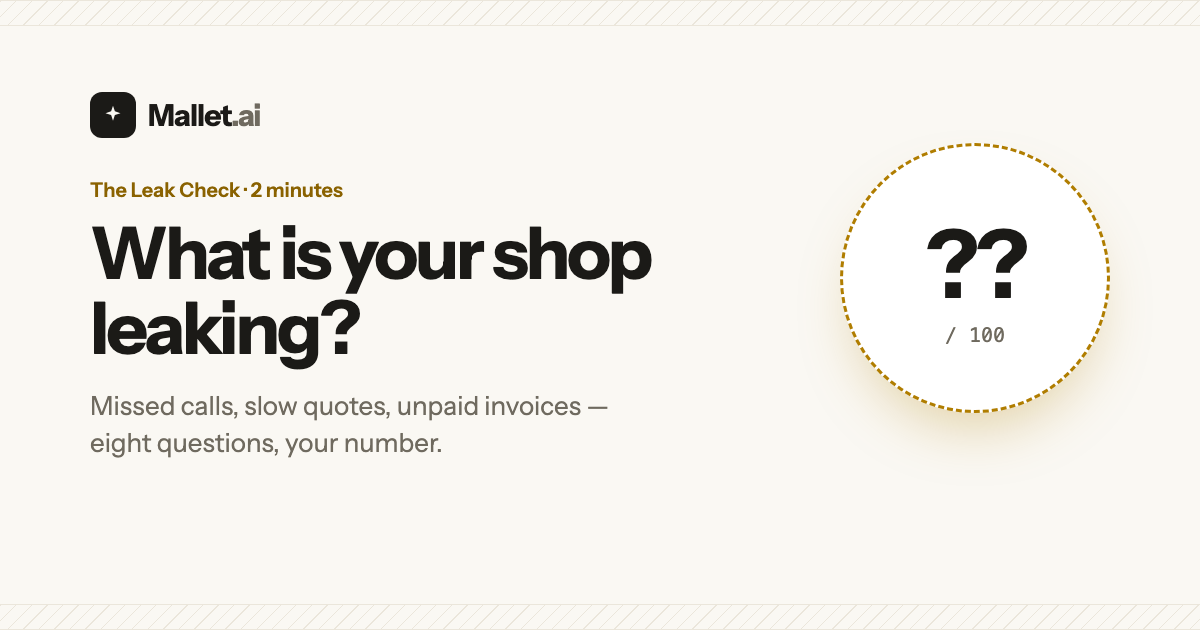
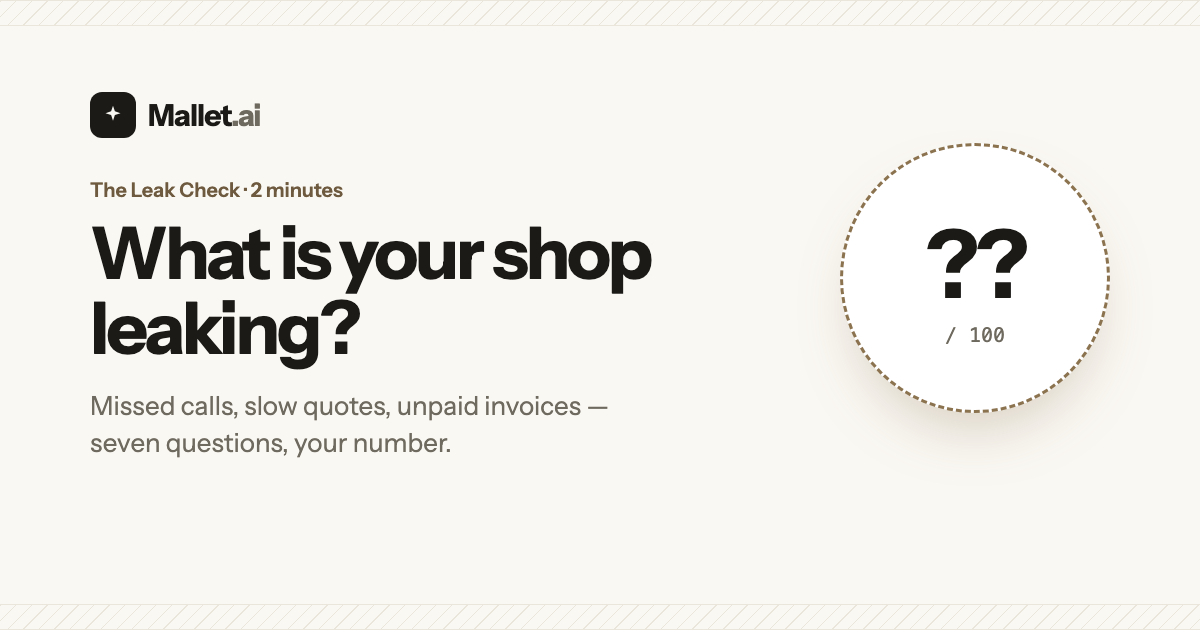
feat: interactive receipt, animated result, quiz to 7 questions
Implements the reviewer's read of the tradesperson feedback: he wasn't
asking to SEE the assumptions, he was reaching to TOUCH them ('let's
assume 80%… and you booked 70%').

- The two discount lines are now steppers on BOTH surfaces: 'say only
  [− 50% +] are real customers' (30–90) and 'and just [− 4 in 10 +] of
  those book' (20–70). Conservative defaults prove we undersell; once
  he moves them the number is HIS claim, not ours. Verified: his own
  80%/7-in-10 → $65,520; worksheet total re-sums live
- Receipt readability: tiny mono → body type at .95rem, tabular
  numerals, bronze underlined assumption values, italic hint line
- Leak result page has moving parts now: score dial + money count up,
  bars grow on delay, receipt rows cascade in (reduced-motion safe)
- Quiz 8 → 7: dropped the unscored runs-on question (Owen: too many);
  every number feeding the math stays; copy + og-leak.png (sandstone,
  'seven questions') updated
- Time-cost made tangible from THEIR inputs only: estimating payoff
  now reads 'almost 3.9 40-hour weeks a year back' (no invented rates)
- Events: leak_assumption_adjust + worksheet_assumption_adjust for the
  A/B read (adjust-rate = did adjustability matter)

diff --git a/leak-check.html b/leak-check.html
@@ -4,13 +4,13 @@
   <meta charset="utf-8" />
   <meta name="viewport" content="width=device-width, initial-scale=1" />
   <title>The Leak Check — what your shop is losing, in 2 minutes | Mallet</title>
-  <meta name="description" content="Eight questions, two minutes: find out what missed calls, slow quotes, and unchased invoices are costing your shop — and get the fix plan." />
+  <meta name="description" content="Seven questions, two minutes: find out what missed calls, slow quotes, and unchased invoices are costing your shop — and get the fix plan." />
   <meta name="robots" content="index,follow" />
 
   <!-- Open Graph -->
   <meta property="og:type" content="website" />
   <meta property="og:title" content="The Leak Check — what is your shop losing?" />
-  <meta property="og:description" content="Eight questions, two minutes: what missed calls, slow quotes, and unchased invoices cost you per year." />
+  <meta property="og:description" content="Seven questions, two minutes: what missed calls, slow quotes, and unchased invoices cost you per year." />
   <meta property="og:image" content="https://www.trymallet.com/assets/og-leak.png" />
   <meta property="og:url" content="https://www.trymallet.com/leak-check" />
   <meta name="twitter:card" content="summary_large_image" />
@@ -49,7 +49,7 @@
         <div class="lc-step on" data-lc="intro">
           <p class="hero-kicker">The Leak Check</p>
           <h1 class="lc-h">What is your shop losing<br />right now?</h1>
-          <p class="lc-sub">Eight questions, two minutes &mdash; deliberately modest math, same as a good estimator would do it.</p>
+          <p class="lc-sub">Seven questions, two minutes &mdash; deliberately modest math, same as a good estimator would do it.</p>
           <button class="btn-primary lg" id="lcStart" type="button">Start the check &rarr;</button>
           <p class="lc-fine">Built by Mallet &middot; the AI-native operating system for service businesses</p>
         </div>
@@ -103,10 +103,11 @@
             <p class="roi-label">WALKING PAST YOUR SHOP, PER YEAR</p>
             <p class="roi-big" id="lcLeak">$23,400</p>
             <p class="roi-note" id="lcLeakNote">52 calls a year ring out and book with the next shop.</p>
-            <div class="lm-rows lc-mathrows">
+            <div class="lm-rows lc-mathrows" id="lcRows">
+              <p class="lm-hint">Our assumptions are deliberately low &mdash; tap &minus;&thinsp;/&thinsp;+ to make them yours.</p>
               <div class="lm-row"><span>missed calls &times; 52 weeks</span><i aria-hidden="true"></i><b id="lm1">260</b></div>
-              <div class="lm-row"><span>half don&rsquo;t count &mdash; spam, hang-ups, already gone</span><i aria-hidden="true"></i><b id="lm2">130</b></div>
-              <div class="lm-row"><span>conservatively, 4 in 10 of the rest book</span><i aria-hidden="true"></i><b id="lm3">52 jobs</b></div>
+              <div class="lm-row"><span>say only <span class="stp"><button type="button" data-t="real" data-d="-10" aria-label="lower">&minus;</button><b id="lcPctReal">50%</b><button type="button" data-t="real" data-d="10" aria-label="raise">+</button></span> are real customers</span><i aria-hidden="true"></i><b id="lm2">130</b></div>
+              <div class="lm-row"><span>and just <span class="stp"><button type="button" data-t="book" data-d="-10" aria-label="lower">&minus;</button><b id="lcPctBook">4 in 10</b><button type="button" data-t="book" data-d="10" aria-label="raise">+</button></span> of those book</span><i aria-hidden="true"></i><b id="lm3">52 jobs</b></div>
               <div class="lm-row sum"><span>&times; your average job (<span id="lmTicket">$450</span>)</span><i aria-hidden="true"></i><b id="lm4">$23,400</b></div>
             </div>
             <p class="roi-note" id="lcStuckNote">Plus <b id="lcStuck">$2,700</b> sitting in unpaid invoices right now.</p>
@@ -152,9 +153,6 @@
         ['Roofing', 'roofing'], ['HVAC', 'hvac'], ['Tree work', 'tree'], ['Other service work', 'other']] },
       { key: 'techs', q: 'How many techs on the crew?', opts: [
         ['Just me', '1'], ['1–10', '1-10'], ['10–50', '10-50'], ['50+', '50+']] },
-      { key: 'runs', q: 'How do you run the shop today?', opts: [
-        ['Paper, whiteboard & texts', 'paper'], ['Spreadsheets & QuickBooks', 'spreadsheets'],
-        ['Field-service software', 'software'], ['A mix of everything', 'mix']] },
       { key: 'phone', q: 'Who answers the phone when you’re on a job?', opts: [
         ['Someone in the office', 'office', 4], ['An answering service', 'service', 8],
         ['Me — from the truck', 'me', 16], ['Voicemail catches it', 'voicemail', 22]] },
@@ -169,6 +167,7 @@
         ['None', 0, 0], ['1–3', 2, 8], ['4–8', 6, 16], ['More than 8', 10, 24]] }
     ];
 
+    function slice(x) { return Array.prototype.slice.call(x); }
     var steps = {}, els = {};
     ['intro', 'quiz', 'gate', 'result'].forEach(function (k) {
       steps[k] = document.querySelector('[data-lc="' + k + '"]');
@@ -252,19 +251,60 @@
 
       var tier = score >= 85 ? 'Watertight' : score >= 65 ? 'Dripping' : score >= 40 ? 'Leaking' : 'Pouring';
 
-      els.lcScore.textContent = score;
       els.lcTier.textContent = tier;
-      els.barDesk.style.width = Math.min(100, pDesk / 56 * 100) + '%';
-      els.barQuote.style.width = Math.min(100, pQuote / 20 * 100) + '%';
-      els.barInv.style.width = Math.min(100, pInv / 24 * 100) + '%';
-      els.lcLeak.textContent = fmt(leakYr);
-      els.lcLeakNote.textContent = Math.round(recovered) + ' calls a year ring out and book with the next shop.';
+      var pctReal = 50, pctBook = 40;
       var callsYr = answers.missed * 52;
-      document.getElementById('lm1').textContent = callsYr.toLocaleString('en-US');
-      document.getElementById('lm2').textContent = Math.round(callsYr * 0.5).toLocaleString('en-US');
-      document.getElementById('lm3').textContent = Math.round(recovered).toLocaleString('en-US') + ' jobs';
-      document.getElementById('lmTicket').textContent = fmt(ticket);
-      document.getElementById('lm4').textContent = fmt(leakYr);
+
+      function paintMath() {
+        var real = callsYr * pctReal / 100;
+        var jobs = real * pctBook / 100;
+        var money = jobs * ticket;
+        document.getElementById('lm1').textContent = callsYr.toLocaleString('en-US');
+        document.getElementById('lm2').textContent = Math.round(real).toLocaleString('en-US');
+        document.getElementById('lm3').textContent = Math.round(jobs).toLocaleString('en-US') + ' jobs';
+        document.getElementById('lmTicket').textContent = fmt(ticket);
+        document.getElementById('lm4').textContent = fmt(money);
+        document.getElementById('lcPctReal').textContent = pctReal + '%';
+        document.getElementById('lcPctBook').textContent = (pctBook / 10) + ' in 10';
+        els.lcLeak.textContent = fmt(money);
+        els.lcLeakNote.textContent = Math.round(jobs) + ' calls a year ring out and book with the next shop.';
+      }
+      document.getElementById('lcRows').addEventListener('click', function (e) {
+        var b = e.target.closest('button[data-t]');
+        if (!b) return;
+        var d = parseInt(b.getAttribute('data-d'), 10);
+        if (b.getAttribute('data-t') === 'real') pctReal = Math.min(90, Math.max(30, pctReal + d));
+        else pctBook = Math.min(70, Math.max(20, pctBook + d));
+        paintMath();
+        track('leak_assumption_adjust', { real: pctReal, book: pctBook });
+      });
+      paintMath();
+
+      // the reveal scene: dial + money count up, bars grow, rows cascade
+      var reduceM = window.matchMedia('(prefers-reduced-motion: reduce)').matches;
+      function countUp(el, target, prefix, dur) {
+        if (reduceM) { el.textContent = prefix + Math.round(target).toLocaleString('en-US'); return; }
+        var t0 = null;
+        function tick(ts) {
+          if (!t0) t0 = ts;
+          var p = Math.min((ts - t0) / dur, 1);
+          var eased = 1 - Math.pow(1 - p, 3);
+          el.textContent = prefix + Math.round(target * eased).toLocaleString('en-US');
+          if (p < 1) requestAnimationFrame(tick);
+        }
+        requestAnimationFrame(tick);
+      }
+      countUp(els.lcScore, score, '', 900);
+      countUp(els.lcLeak, leakYr, '$', 1100);
+      setTimeout(function () {
+        els.barDesk.style.width = Math.min(100, pDesk / 56 * 100) + '%';
+        els.barQuote.style.width = Math.min(100, pQuote / 20 * 100) + '%';
+        els.barInv.style.width = Math.min(100, pInv / 24 * 100) + '%';
+      }, reduceM ? 0 : 250);
+      slice(document.querySelectorAll('#lcRows .lm-row, #lcRows .lm-hint')).forEach(function (row, i) {
+        if (reduceM) { row.classList.add('on'); return; }
+        setTimeout(function () { row.classList.add('on'); }, 500 + i * 180);
+      });
       els.lcStuck.textContent = fmt(stuck);
       document.getElementById('lcStuckNote').style.display = stuck > 0 ? '' : 'none';
 
@@ -274,7 +314,7 @@
       var params = '&score=' + score + '&leak_yr=' + Math.round(leakYr) + '&stuck=' + Math.round(stuck) +
         '&trade=' + encodeURIComponent(answers.trade) + '&techs=' + encodeURIComponent(answers.techs) +
         '&phone=' + encodeURIComponent(answers.phone) + '&missed=' + answers.missed +
-        '&ticket=' + ticket + '&quote_speed=' + encodeURIComponent(answers.quotes) + '&unpaid_band=' + answers.unpaid + '&runs_on=' + encodeURIComponent(answers.runs);
+        '&ticket=' + ticket + '&quote_speed=' + encodeURIComponent(answers.quotes) + '&unpaid_band=' + answers.unpaid;
       t.setAttribute('data-tally-src', t.getAttribute('data-tally-base') + params);
       if (window.Tally && window.Tally.loadEmbeds) {
         window.Tally.loadEmbeds();

diff --git a/main.js b/main.js
@@ -493,6 +493,7 @@
 
     var fmt = function (n) { return '$' + Math.round(n).toLocaleString('en-US'); };
     var totalNow = 0;
+    var pctReal = 50, pctBook = 40; // the receipt's adjustable assumptions
 
     function update() {
       var missed = +r.missed.value, quotes = +r.quotes.value, callbacks = +r.callbacks.value;
@@ -505,7 +506,7 @@
       document.getElementById('oUnpaid').textContent = unpaid;
       ticketOuts.forEach(function (o) { o.textContent = fmt(ticket); });
 
-      var recoveredJobs = missed * 52 * 0.5 * 0.4;        // calls/yr → reachable → booked
+      var recoveredJobs = missed * 52 * (pctReal / 100) * (pctBook / 100); // calls/yr → real → booked
       var jobsRevenue = recoveredJobs * ticket;
       var quoteHours = quotes * 52 * 0.5;                 // 30 min per quote
       var callbackSave = callbacks * 12 * (ticket * 0.5) / 3;
@@ -517,10 +518,14 @@
       if (wm1) {
         var callsYr = missed * 52;
         wm1.textContent = callsYr.toLocaleString('en-US');
-        document.getElementById('wm2').textContent = Math.round(callsYr * 0.5).toLocaleString('en-US');
+        document.getElementById('wm2').textContent = Math.round(callsYr * pctReal / 100).toLocaleString('en-US');
         document.getElementById('wm3').textContent = Math.round(recoveredJobs).toLocaleString('en-US') + ' jobs';
         document.getElementById('wm4').textContent = fmt(jobsRevenue);
+        document.getElementById('wkPctReal').textContent = pctReal + '%';
+        document.getElementById('wkPctBook').textContent = (pctBook / 10) + ' in 10';
       }
+      var wksEl = document.getElementById('pEstWeeks');
+      if (wksEl) wksEl.textContent = 'almost ' + (Math.round(quoteHours / 40 * 10) / 10) + ' 40-hour weeks';
       document.getElementById('pEst').textContent = Math.round(quoteHours) + ' hrs';
       document.getElementById('pFore').textContent = fmt(callbackSave);
       document.getElementById('pCash').textContent = fmt(cashOut);
@@ -531,6 +536,17 @@
 
     Object.keys(r).forEach(function (k) { r[k].addEventListener('input', update); });
     var mBtn = document.getElementById('wkMathBtn'), mBox = document.getElementById('wkMath');
+    if (mBox) {
+      mBox.addEventListener('click', function (e) {
+        var b = e.target.closest('button[data-t]');
+        if (!b) return;
+        var d = parseInt(b.getAttribute('data-d'), 10);
+        if (b.getAttribute('data-t') === 'real') pctReal = Math.min(90, Math.max(30, pctReal + d));
+        else pctBook = Math.min(70, Math.max(20, pctBook + d));
+        update();
+        window.malletTrack('worksheet_assumption_adjust', { real: pctReal, book: pctBook });
+      });
+    }
     if (mBtn && mBox) {
       mBtn.addEventListener('click', function () {
         var open = mBox.hidden;
@@ -629,7 +645,7 @@
         '<div class="exit-card" role="dialog" aria-modal="true" aria-labelledby="exitH">' +
         '<p class="hero-kicker">Before you go</p>' +
         '<h3 id="exitH">Leaving without your number?</h3>' +
-        '<p class="exit-p">Eight questions, two minutes &mdash; see what missed calls, slow quotes, and unpaid invoices cost your shop every year.</p>' +
+        '<p class="exit-p">Seven questions, two minutes &mdash; see what missed calls, slow quotes, and unpaid invoices cost your shop every year.</p>' +
         '<div class="exit-actions">' +
         '<a class="btn-amber lg" href="/leak-check">Get my Leak Score &rarr;</a>' +
         '<button class="exit-no" type="button">No thanks</button>' +

diff --git a/styles.css b/styles.css
@@ -1057,13 +1057,28 @@ input[type="range"]::-moz-range-track{height:4px;border-radius:99px;background:#
 .src-line{margin-top:.9rem;font-size:.92rem;color:var(--ink-soft)}
 .src-line .src-inline{margin-left:.5rem}
 
-/* ============== THE RECEIPT — visible math under the big numbers ============== */
-.lm-toggle{margin-top:.7rem;background:none;border:0;padding:0;font-family:var(--font-mono);font-size:.7rem;letter-spacing:.08em;color:var(--amber-deep);cursor:pointer}
+/* ============== THE RECEIPT — readable, adjustable math ============== */
+.lm-toggle{margin-top:.7rem;background:none;border:0;padding:0;font-family:var(--font-body);font-size:.9rem;font-weight:600;color:var(--amber-deep);cursor:pointer}
 .lm-toggle:hover{color:var(--ink)}
-.lm-rows{margin-top:.75rem;display:flex;flex-direction:column;gap:.32rem;max-width:40ch}
-.lm-row{display:flex;align-items:baseline;gap:.5rem;font-family:var(--font-mono);font-size:.72rem;color:var(--ink-soft)}
-.lm-row i{flex:1;border-bottom:2px dotted #CFC8B8;transform:translateY(-3px);min-width:16px}
-.lm-row b{font-weight:700;color:var(--ink);white-space:nowrap}
-.lm-row.sum{border-top:1px dashed var(--line);padding-top:.4rem;margin-top:.25rem}
-.lm-row.sum b{font-size:.86rem}
-.lc-mathrows{margin-top:1rem}
+.lm-rows{margin-top:.9rem;display:flex;flex-direction:column;gap:.5rem;max-width:46ch}
+.lm-hint{font-size:.82rem;color:var(--ink-soft);font-style:italic;margin-bottom:.15rem}
+.lm-row{display:flex;align-items:baseline;gap:.6rem;font-family:var(--font-body);font-size:.95rem;color:var(--ink-soft);line-height:1.5}
+.lm-row i{flex:1;border-bottom:2px dotted #D9D2C2;transform:translateY(-4px);min-width:14px}
+.lm-row b{font-weight:700;color:var(--ink);white-space:nowrap;font-variant-numeric:tabular-nums}
+.lm-row.sum{border-top:1px dashed var(--line);padding-top:.55rem;margin-top:.3rem;color:var(--ink)}
+.lm-row.sum b{font-size:1.05rem}
+.lc-mathrows{margin-top:1.1rem}
+/* steppers: the assumptions are yours to touch */
+.stp{display:inline-flex;align-items:center;gap:.35rem;vertical-align:baseline;margin:0 .1rem}
+.stp b{color:var(--amber-deep);border-bottom:2px solid rgba(140,115,80,.4);padding-bottom:1px}
+.stp button{
+  width:22px;height:22px;border-radius:50%;border:1.5px solid var(--line);background:var(--card);
+  color:var(--ink);font-size:.85rem;line-height:1;cursor:pointer;display:inline-flex;align-items:center;justify-content:center;
+  transition:border-color .12s ease, background .12s ease;
+}
+.stp button:hover{border-color:var(--ink)}
+.stp button:active{background:var(--parchment)}
+/* leak-check result: rows cascade in */
+#lcRows .lm-row,#lcRows .lm-hint{opacity:0;transform:translateY(6px);transition:opacity .4s ease, transform .4s ease}
+#lcRows .lm-row.on,#lcRows .lm-hint.on{opacity:1;transform:none}
+@media (prefers-reduced-motion: reduce){ #lcRows .lm-row,#lcRows .lm-hint{opacity:1;transform:none} }

diff --git a/index.html b/index.html
@@ -253,10 +253,11 @@
             <p class="roi-note"><span id="pDeskN">52</span> booked jobs a year.</p>
             <button class="lm-toggle" id="wkMathBtn" type="button">See the math &darr;</button>
             <div class="lm-rows" id="wkMath" hidden>
-              <div class="lm-row"><span>missed calls &times; 52 weeks</span><i aria-hidden="true"></i><b id="wm1">260</b></div>
-              <div class="lm-row"><span>half don&rsquo;t count &mdash; spam, hang-ups, gone</span><i aria-hidden="true"></i><b id="wm2">130</b></div>
-              <div class="lm-row"><span>only 4 in 10 of the rest book</span><i aria-hidden="true"></i><b id="wm3">52 jobs</b></div>
-              <div class="lm-row sum"><span>&times; your average job</span><i aria-hidden="true"></i><b id="wm4">$23,400</b></div>
+              <p class="lm-hint">Low on purpose &mdash; tap &minus;&thinsp;/&thinsp;+ to match your shop.</p>
+              <div class="lm-row on"><span>missed calls &times; 52 weeks</span><i aria-hidden="true"></i><b id="wm1">260</b></div>
+              <div class="lm-row on"><span>say only <span class="stp"><button type="button" data-t="real" data-d="-10" aria-label="lower">&minus;</button><b id="wkPctReal">50%</b><button type="button" data-t="real" data-d="10" aria-label="raise">+</button></span> are real customers</span><i aria-hidden="true"></i><b id="wm2">130</b></div>
+              <div class="lm-row on"><span>and just <span class="stp"><button type="button" data-t="book" data-d="-10" aria-label="lower">&minus;</button><b id="wkPctBook">4 in 10</b><button type="button" data-t="book" data-d="10" aria-label="raise">+</button></span> of those book</span><i aria-hidden="true"></i><b id="wm3">52 jobs</b></div>
+              <div class="lm-row sum on"><span>&times; your average job</span><i aria-hidden="true"></i><b id="wm4">$23,400</b></div>
             </div>
           </div>
         </div>
@@ -272,7 +273,7 @@
           <div class="ledger-payoff">
             <p class="roi-label">QUOTE-WRITING, BACK PER YEAR</p>
             <p class="roi-big" id="pEst">156 hrs</p>
-            <p class="roi-note">It drafts, you review and send.</p>
+            <p class="roi-note">It drafts, you review and send &mdash; <b id="pEstWeeks">almost four 40-hour weeks</b> a year back.</p>
           </div>
         </div>
 
@@ -329,7 +330,7 @@
         <p class="roi-fine">Deliberately modest estimates &mdash; the pilot measures the real numbers.</p>
 
         <div class="cta-row split" data-reveal>
-          <a class="btn-amber lg" href="/leak-check">Get my shop&rsquo;s Leak Score &mdash; 8 questions, 2 minutes &rarr;</a>
+          <a class="btn-amber lg" href="/leak-check">Get my shop&rsquo;s Leak Score &mdash; 7 questions, 2 minutes &rarr;</a>
           <a class="linkish js-book-demo" href="#demo">or book a demo &rarr;</a>
         </div>
       </div>
